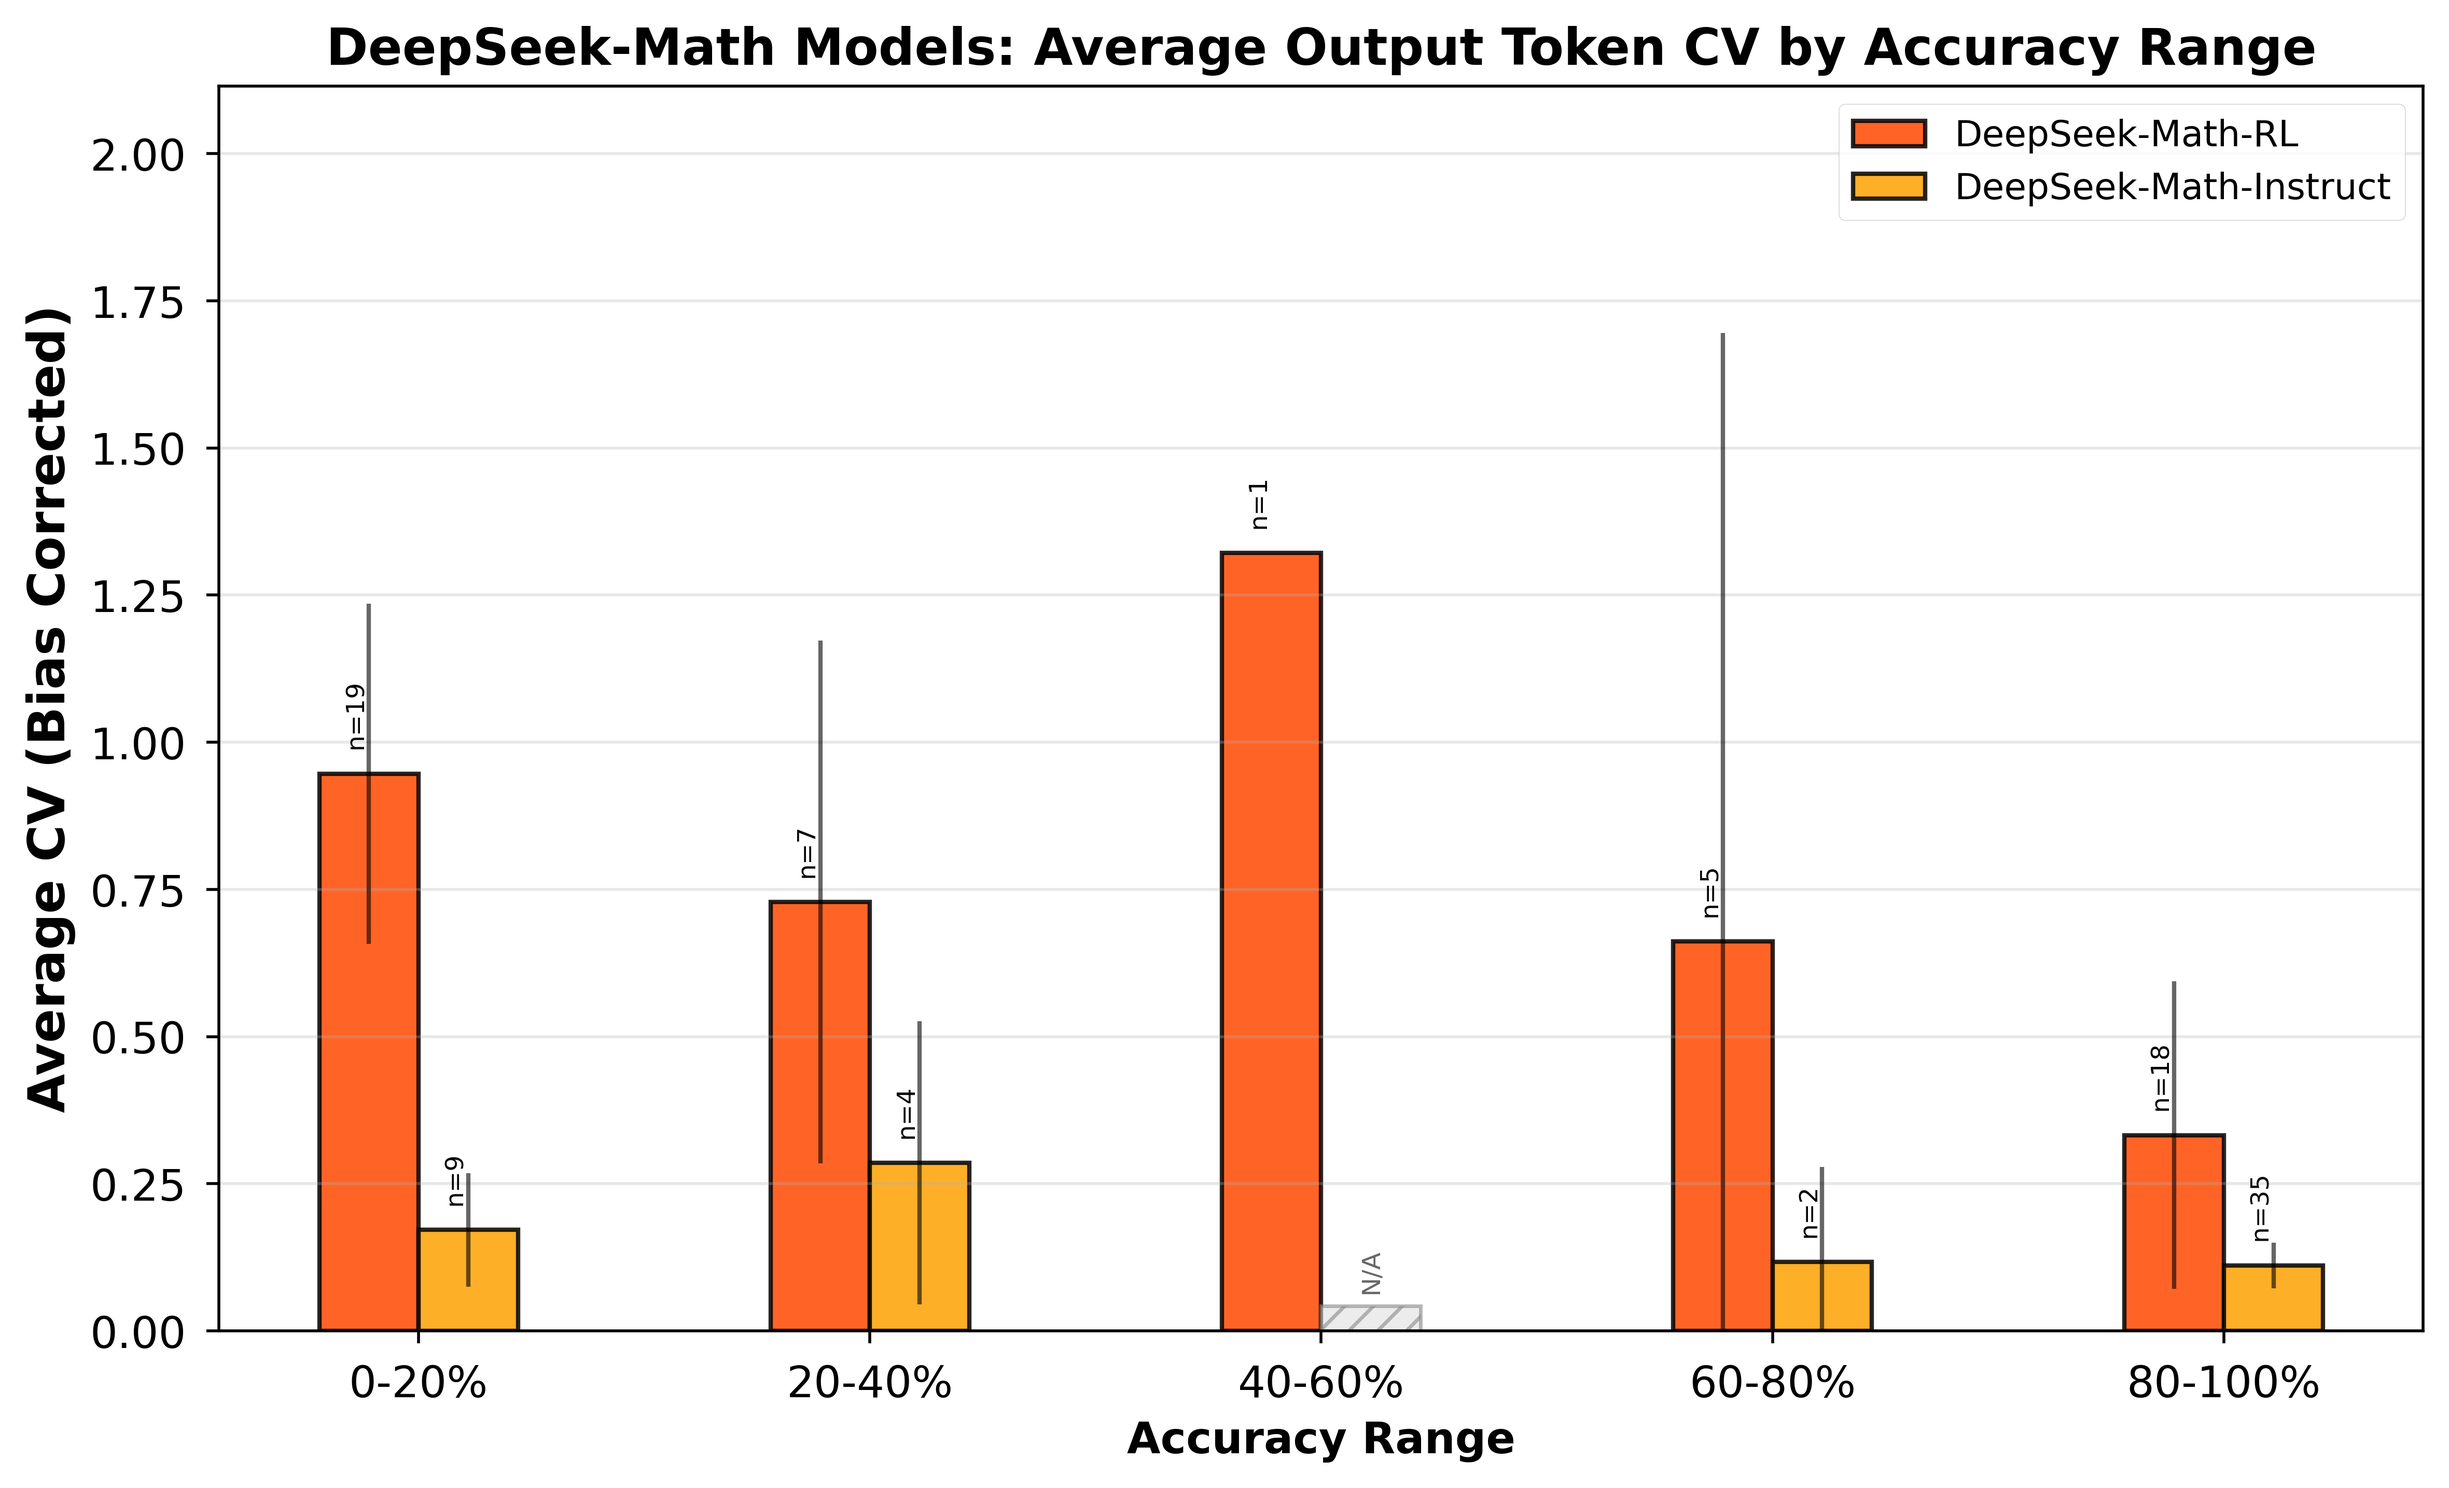
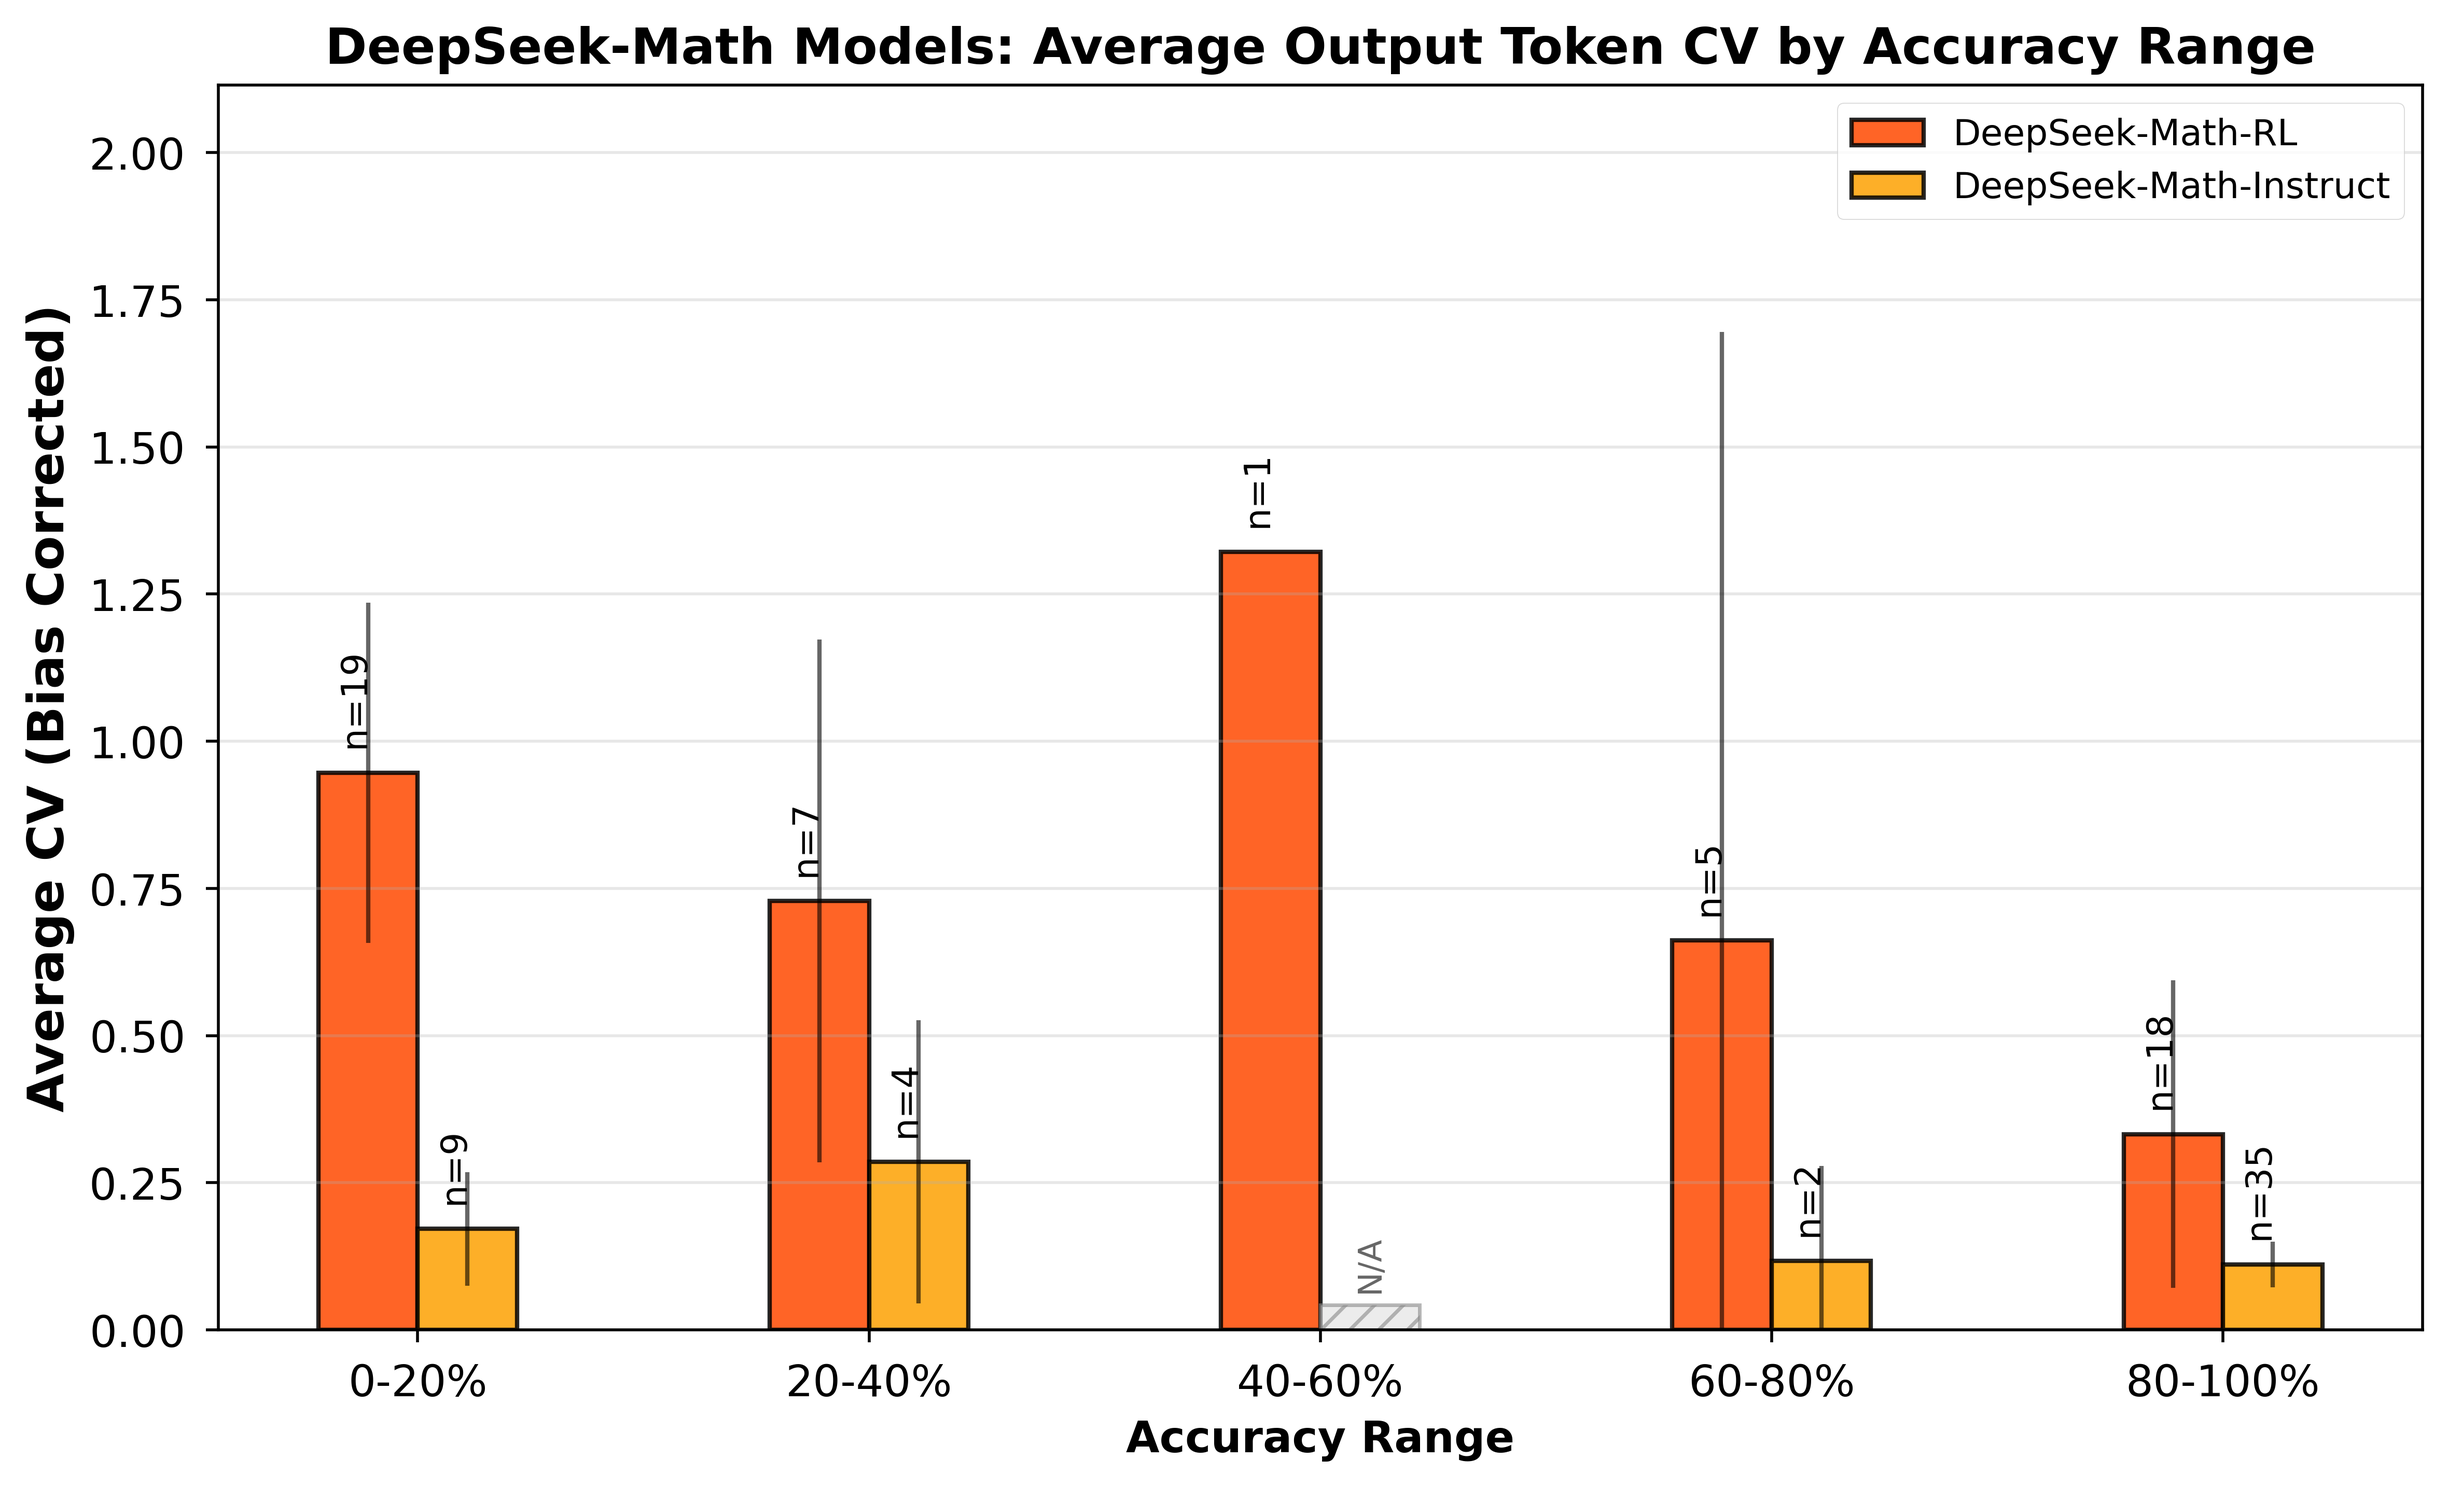
Final Figures

diff --git a/experiment_code/token_variability_experiment/bargraph_accuracy_vs_token_cv.py b/experiment_code/token_variability_experiment/bargraph_accuracy_vs_token_cv.py
@@ -15,9 +15,9 @@ import os
 def load_model_data(model_name: str, csv_directory: str) -> pd.DataFrame | None:
     """
     Load and process data for a specific model from a directory of CSV files.
-    
+
     Aggregates data across multiple runs (CSV files), calculates mean accuracy,
-    output token mean, output token standard deviation, and the coefficient of 
+    output token mean, output token standard deviation, and the coefficient of
     variation (CV) for output tokens per question.
 
     Args:
@@ -30,21 +30,21 @@ def load_model_data(model_name: str, csv_directory: str) -> pd.DataFrame | None:
         or None if no valid data is found.
     """
     print(f"\nLoading data for {model_name}...")
-    
-    csv_files = glob.glob(f"{csv_directory}/*.csv") 
-    
+
+    csv_files = glob.glob(f"{csv_directory}/*.csv")
+
     if not csv_files:
         print(f"No CSV files found in {csv_directory}")
         return None
-    
+
     print(f"Found {len(csv_files)} CSV files for {model_name}")
-    
+
     csv_files.sort()
     all_data: list[pd.DataFrame] = []
-    
+
     processed_files = 0
     skipped_files = 0
-    
+
     for csv_file in csv_files:
         try:
             df = pd.read_csv(csv_file)
@@ -55,81 +55,81 @@ def load_model_data(model_name: str, csv_directory: str) -> pd.DataFrame | None:
                 skipped_files += 1
         except (pd.errors.EmptyDataError, pd.errors.ParserError):
             skipped_files += 1
-    
+
     if not all_data:
         print(f"No valid data files found in {csv_directory}")
         return None
-        
+
     if skipped_files > 0:
         print(f"Skipped {skipped_files} empty or invalid files")
-    
+
     combined = pd.concat(all_data, keys=range(len(all_data)))
     combined = combined.reset_index(level=0).rename(columns={'level_0': 'run'})
-    
+
     print(f"Processed {processed_files} files")
-    
+
     grouped = combined.groupby('index').agg({
         'is_correct': 'mean',
         'output_tokens': ['mean', 'std', 'count']
     }).reset_index()
-    
+
     grouped.columns = ['index', 'mean_accuracy', 'output_token_mean', 'output_token_std', 'run_count']
-    
+
     # CV (with small-sample bias correction)
     grouped['output_token_cv'] = grouped['output_token_std'] / grouped['output_token_mean']
     grouped['output_token_cv'] *= (1 + 1 / (4 * grouped['run_count']))
     grouped.loc[grouped['output_token_mean'] == 0, 'output_token_cv'] = 0
     grouped['output_token_cv'] = grouped['output_token_cv'].replace([np.inf, -np.inf], 0)
-    
+
     print(f"\nMetrics for {model_name}:")
     print(f"  Mean accuracy range: {grouped['mean_accuracy'].min():.2f} - {grouped['mean_accuracy'].max():.2f}")
     print(f"  Output token CV range: {grouped['output_token_cv'].min():.3f} - {grouped['output_token_cv'].max():.3f}")
-    
+
     return grouped
 
 def prepare_bar_data(data_dict: dict[str, pd.DataFrame]) -> pd.DataFrame:
     """
     Prepare data for bar graphs by binning accuracy and calculating average CV.
-    
+
     Groups the data into accuracy bins (0-20%, 20-40%, etc.) and calculates
     the mean, standard deviation, count, and standard error of the Output Token CV
     for each bin.
 
     Args:
-        data_dict (dict): A dictionary mapping model names to their corresponding 
+        data_dict (dict): A dictionary mapping model names to their corresponding
                           metrics DataFrames.
 
     Returns:
         pd.DataFrame: A combined DataFrame containing bin statistics for all models.
     """
     results: list[pd.DataFrame] = []
-    
+
     for model_name, df in data_dict.items():
         bins = [0, 0.2, 0.4, 0.6, 0.8, 1.0]
         labels = ['0-20%', '20-40%', '40-60%', '60-80%', '80-100%']
         df['accuracy_bin'] = pd.cut(df['mean_accuracy'], bins=bins, labels=labels, include_lowest=True)
-        
+
         bin_stats = df.groupby('accuracy_bin', observed=True).agg({
             'output_token_cv': ['mean', 'std', 'count']
         }).reset_index()
-        
+
         bin_stats.columns = ['accuracy_bin', 'avg_cv', 'std_of_cv', 'count']
-        
+
         # Standard error and 95% CI (t-distribution)
         bin_stats['se_of_cv'] = bin_stats['std_of_cv'] / np.sqrt(bin_stats['count'])
-        
+
         degrees_of_freedom = bin_stats['count'].values - 1
-        
+
         t_crit = np.full(degrees_of_freedom.shape, np.nan)
         valid_mask = degrees_of_freedom > 0
         if np.any(valid_mask):
             t_crit[valid_mask] = stats.t.ppf(0.975, degrees_of_freedom[valid_mask])  # two-tailed 95%
-            
+
         bin_stats['ci_95'] = bin_stats['se_of_cv'] * t_crit
-        
+
         bin_stats['model'] = model_name
         results.append(bin_stats)
-    
+
     if not results:
         return pd.DataFrame(columns=['accuracy_bin', 'avg_cv', 'std_of_cv', 'count', 'se_of_cv', 'ci_95', 'model'])
 
@@ -150,68 +150,68 @@ def plot_family_metrics(models_config: dict[str, str], data_dict: dict[str, pd.D
         base_dir (str): Base directory for saving files.
     """
     fig, ax = plt.subplots(1, 1, figsize=(10, 6))
-    
+
     accuracy_bins = ['0-20%', '20-40%', '40-60%', '60-80%', '80-100%']
     x = np.arange(len(accuracy_bins))
-    
+
     num_models = len(models_config)
     width = 0.22
     start_offset = -((num_models - 1) * width) / 2
 
     placeholder_height = y_limit * 0.02  # Height for "no data" placeholder bars
-    
+
     for i, model_name in enumerate(models_config.keys()):
         if model_name in data_dict:
             model_data = bar_data[bar_data['model'] == model_name]
-            
+
             model_data = model_data.set_index('accuracy_bin').reindex(accuracy_bins).reset_index()
             model_data = model_data.fillna(0)
-            
+
             offset = start_offset + (i * width)
-            
+
             # Separate data into bins with results and bins without
             has_data = model_data['count'] > 0
-            
+
             # Plot bars with data
-            ax.bar(x[has_data] + offset, model_data.loc[has_data, 'avg_cv'], width, 
+            ax.bar(x[has_data] + offset, model_data.loc[has_data, 'avg_cv'], width,
                    label=model_name, color=colors[model_name],
                    alpha=0.85, edgecolor='black', linewidth=1.2)
-            
+
             # Plot placeholder bars for missing data (grey with hatch pattern)
             if (~has_data).any():
                 ax.bar(x[~has_data] + offset, placeholder_height, width,
-                       color='#E0E0E0', alpha=0.6, edgecolor='#888888', 
+                       color='#E0E0E0', alpha=0.6, edgecolor='#888888',
                        linewidth=1.0, hatch='///')
-            
-            ax.errorbar(x[has_data] + offset, model_data.loc[has_data, 'avg_cv'], 
-                        yerr=model_data.loc[has_data, 'ci_95'], fmt='none', 
+
+            ax.errorbar(x[has_data] + offset, model_data.loc[has_data, 'avg_cv'],
+                        yerr=model_data.loc[has_data, 'ci_95'], fmt='none',
                         ecolor='black', capsize=4, alpha=0.6, linewidth=1.2)
-            
+
             for j, val in enumerate(model_data['avg_cv']):
                 count = int(model_data['count'].iloc[j])
                 if count > 0:
                     y_pos = val + (y_limit * 0.02)
-                    ax.text(x[j] + offset - 0.03, y_pos, f"n={count}", 
-                            ha='center', va='bottom', fontsize=7, rotation=90, color='black')
+                    ax.text(x[j] + offset - 0.03, y_pos, f"n={count}",
+                            ha='center', va='bottom', fontsize=10, rotation=90, color='black')
                 else:
                     # Label for no-data placeholder
-                    ax.text(x[j] + offset, placeholder_height + (y_limit * 0.01), "N/A", 
-                            ha='center', va='bottom', fontsize=7, rotation=90, color='#666666')
+                    ax.text(x[j] + offset, placeholder_height + (y_limit * 0.01), "N/A",
+                            ha='center', va='bottom', fontsize=9, rotation=90, color='#666666')
 
     ax.set_xlabel('Accuracy Range', fontsize=12, fontweight='bold')
     ax.set_ylabel('Average CV (Bias Corrected)', fontsize=14, fontweight='bold')
     ax.set_title(title, fontsize=14, fontweight='bold')
     ax.set_xticks(x)
-    
+
     ax.set_xticklabels(accuracy_bins, rotation=0, fontsize=12)
-    
+
     ax.set_ylim(0, y_limit)
     ax.tick_params(axis='y', labelsize=12)
     ax.legend(fontsize=10, loc='upper right')
     ax.grid(True, alpha=0.3, axis='y')
 
     plt.subplots_adjust(left=0.1, right=0.95, top=0.92, bottom=0.12)
-    
+
     output_path = os.path.join(base_dir, output_filename)
     fig.savefig(output_path, dpi=500, bbox_inches='tight')
     print(f"\nPlot saved to: {output_path}")
@@ -219,7 +219,7 @@ def plot_family_metrics(models_config: dict[str, str], data_dict: dict[str, pd.D
 
 def main() -> None:
     plt.style.use('seaborn-v0_8-paper')
-        
+
     base_dir = "./"
     os.makedirs(base_dir, exist_ok=True)
     print("Loading data for all models...")
@@ -230,12 +230,11 @@ def main() -> None:
     }
 
     olmo3_models = {
-        "Olmo-3-7B-RL-Zero-Math": f'{base_dir}/olmo3_rl_zero_results',
+        # "Olmo-3-7B-RL-Zero-Math": f'{base_dir}/olmo3_rl_zero_results',
         "Olmo-3-7B-Think": f'{base_dir}/olmo3_thinking_rlvr_results',
-        "Olmo-3-7B-Thinking-SFT": f'{base_dir}/olmo3_thinking_sft_results',
-        "Olmo-3-7B-Thinking-DPO": f'{base_dir}/olmo3_thinking_dpo_results',
+        # "Olmo-3-7B-Thinking-SFT": f'{base_dir}/olmo3_thinking_sft_results',
+        # "Olmo-3-7B-Thinking-DPO": f'{base_dir}/olmo3_thinking_dpo_results',
         "Olmo-3-7B-Instruct": f'{base_dir}/olmo3_instruct_results',
-        
         # 'Olmo-3-Base-7B': f'{base_dir}/olmo3_base_results',
     }
 
@@ -246,10 +245,10 @@ def main() -> None:
     }
 
     olmo3_colors = {
-        'Olmo-3-7B-RL-Zero-Math': '#001A4D',  # Darkest navy
+        # 'Olmo-3-7B-RL-Zero-Math': '#001A4D',  # Darkest navy
         'Olmo-3-7B-Think': '#003366',          # Dark blue
-        'Olmo-3-7B-Thinking-SFT': '#0066CC',  # Medium blue
-        'Olmo-3-7B-Thinking-DPO': '#3399FF',   # Light blue
+        # 'Olmo-3-7B-Thinking-SFT': '#0066CC',  # Medium blue
+        # 'Olmo-3-7B-Thinking-DPO': '#3399FF',   # Light blue
         'Olmo-3-7B-Instruct': '#99CCFF',       # Lighter blue
     }
 
@@ -279,7 +278,7 @@ def main() -> None:
     max_avg_deepseek = deepseek_bar_data['avg_cv'].max() if not deepseek_bar_data.empty else 0
     max_avg_olmo3 = olmo3_bar_data['avg_cv'].max() if not olmo3_bar_data.empty else 0
     global_max_avg = max(max_avg_deepseek, max_avg_olmo3)
-    
+
     y_max_limit = global_max_avg * 1.6 if global_max_avg > 0 else 1.0
 
     os.makedirs(f'{base_dir}/figures', exist_ok=True)
@@ -298,7 +297,7 @@ def main() -> None:
         './figures/bargraph_olmo3_accuracy_vs_token_cv.png',
         y_max_limit, base_dir
     )
-    
+
     # Save CSVs
     deepseek_bar_data.to_csv(f'{base_dir}/figures/deepseek_bar_data_cv.csv', index=False)
     olmo3_bar_data.to_csv(f'{base_dir}/figures/olmo3_bar_data_cv.csv', index=False)
@@ -315,7 +314,7 @@ def main() -> None:
     print("\n" + "-" * 80)
     print("OLMO3 MODELS:")
     print(olmo3_bar_data.to_string(index=False))
-    
+
     plt.show()
 
 if __name__ == "__main__":
